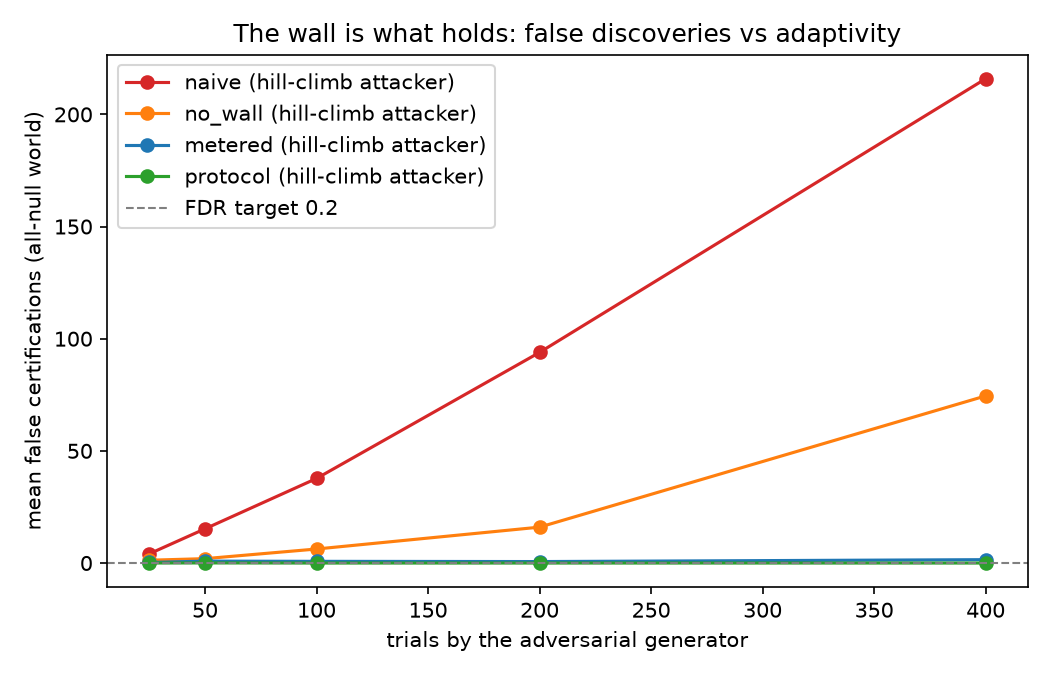
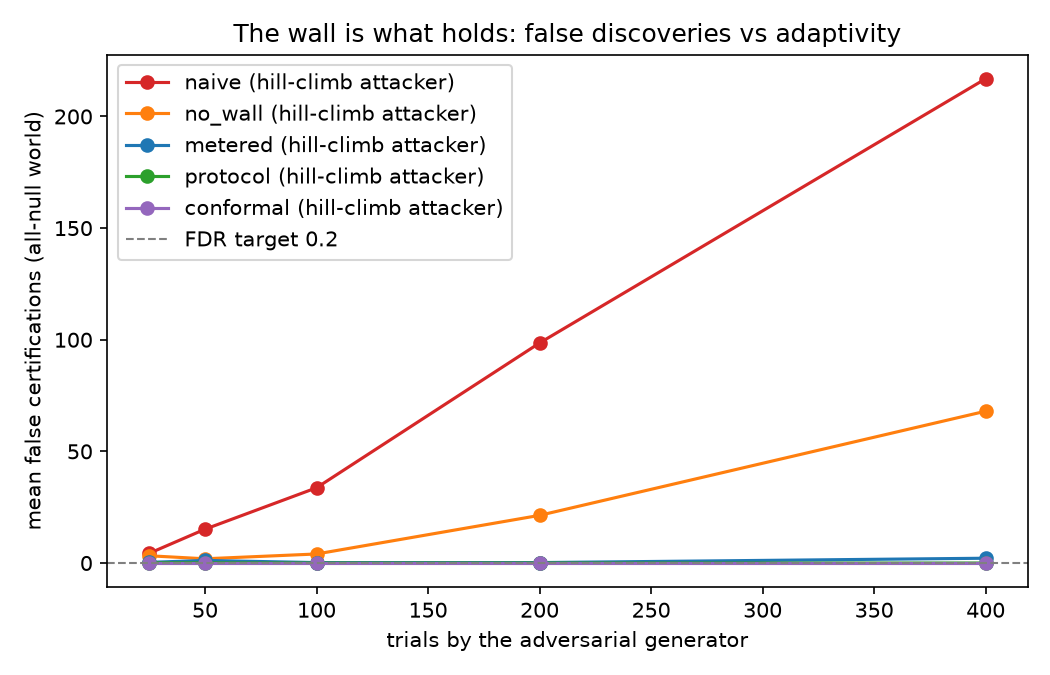
feat(moonshot): conformal Theorem 1 + three-way split attack arm
- Add conformal defense to attack_suite.py using train/calibrate/test split.
- Conformal p-value: Bonferroni-adjusted split-conformal over validation days.
- Result at m=400 hillclimb: 0.0 false certs, matching protocol.
- Add Conformal Theorem 1 to M1-theorem-sketch.md.
- Update moonshot M2 VERDICT with conformal row.

diff --git a/projects/RESEARCH_HERMES/aqra/scripts/attack_suite.py b/projects/RESEARCH_HERMES/aqra/scripts/attack_suite.py
@@ -22,10 +22,15 @@ Defenses:
               and protocol (m=400: 1.5 vs 74.5 vs 0.05 false certs), showing
               leakage grows slowly but is not zero.
   protocol  — BY-FDR over the full ledger AND train-only feedback: candidates
-              are independent of the validation window, p-values valid
+              are independent of the validation window, p-values valid (t-test)
+  conformal — BY-FDR over the full ledger AND train-only feedback, but the
+              validator uses a three-way split (train/calibrate/test) and a
+              distribution-free split-conformal p-value. This removes the
+              parametric t-test caveat from Theorem 1.
 
 Prediction (kill criterion if it fails): naive false-certification count
-explodes with trials; no_wall inflates despite BY; protocol stays at ~alpha.
+explodes with trials; no_wall inflates despite BY; protocol and conformal
+stay at/below alpha.
 
 Usage: uv run python scripts/attack_suite.py [--trials 400] [--reps 20]
 Writes docs/paper/attack_results.{json,md} and attack_fdr.png.
@@ -39,7 +44,7 @@ from pathlib import Path
 import numpy as np
 from scipy import stats
 
-T_TRAIN, T_VAL, D_ASSETS = 252, 252, 50
+T_TRAIN, T_CALIB, T_VAL, D_ASSETS = 252, 252, 252, 50
 CERT_ALPHA_NAIVE = 0.05
 FDR_ALPHA = 0.20
 MUTATE_SD = 0.25
@@ -68,11 +73,28 @@ def pval(pnl: np.ndarray) -> float:
     return float(stats.ttest_1samp(pnl, 0.0, alternative="greater").pvalue)
 
 
+def conformal_pval(r_calib: np.ndarray, r_val: np.ndarray) -> float:
+    """Split-conformal p-value for positive edge, Bonferroni across val days.
+
+    Score = return itself; small p when validation returns are unusually large.
+    Under the null that calibration and validation returns are exchangeable,
+    each per-day p_j is super-uniform; min*p Bonferroni gives a valid
+    candidate-level p-value.
+    """
+    n_calib = len(r_calib)
+    m_val = len(r_val)
+    # p_j = (1 + #{calib returns >= val return j}) / (n_calib + 1)
+    p_day = (1 + np.sum(r_calib[:, None] >= r_val[None, :], axis=0)) / (n_calib + 1)
+    p_cand = p_day.min() * m_val
+    return float(min(p_cand, 1.0))
+
+
 def run_cell(defense: str, attacker: str, n_trials: int,
              rng: np.random.Generator) -> dict:
     """One (defense, attacker) cell on one fresh world. Returns cert counts."""
-    Z_train = rng.normal(0, 0.01, (T_TRAIN, D_ASSETS))   # train noise
-    Z_val = rng.normal(0, 0.01, (T_VAL, D_ASSETS))       # holdout noise
+    Z_train = rng.normal(0, 0.01, (T_TRAIN, D_ASSETS))     # generator's data
+    Z_calib = rng.normal(0, 0.01, (T_CALIB, D_ASSETS))   # validator calibration
+    Z_val = rng.normal(0, 0.01, (T_VAL, D_ASSETS))       # held-out test
 
     train_p, val_p = np.empty(n_trials), np.empty(n_trials)
     best_a, best_score = None, np.inf
@@ -85,8 +107,11 @@ def run_cell(defense: str, attacker: str, n_trials: int,
             a = best_a + rng.normal(0, MUTATE_SD, D_ASSETS)
         a = a / np.linalg.norm(a)
 
-        tp, vp = pval(Z_train @ a), pval(Z_val @ a)
-        train_p[i], val_p[i] = tp, vp
+        r_train, r_calib, r_val_vec = Z_train @ a, Z_calib @ a, Z_val @ a
+        tp = pval(r_train)
+        vp = pval(r_val_vec)
+        cp = conformal_pval(r_calib, r_val_vec)
+        train_p[i], val_p[i] = tp, (cp if defense == "conformal" else vp)
 
         # feedback channel differs by defense
         if attacker == "hillclimb":
@@ -98,7 +123,7 @@ def run_cell(defense: str, attacker: str, n_trials: int,
                 elif best_a is None:
                     pass  # keep sampling randomly until first accept
             else:
-                score = tp if defense == "protocol" else vp
+                score = tp if defense in ("protocol", "conformal") else vp
                 if score < best_score:
                     best_score, best_a = score, a.copy()
 
@@ -120,7 +145,7 @@ def main() -> None:
     args = ap.parse_args()
 
     checkpoints = [25, 50, 100, 200, args.trials]
-    defenses = ["naive", "no_wall", "metered", "protocol"]
+    defenses = ["naive", "no_wall", "metered", "protocol", "conformal"]
     attackers = ["hillclimb", "random"]
 
     results = {d: {a: {str(m): [] for m in checkpoints} for a in attackers}
@@ -144,9 +169,10 @@ def main() -> None:
 
     out = {
         "run_date": date.today().isoformat(),
-        "design": {"t_train": T_TRAIN, "t_val": T_VAL, "assets": D_ASSETS,
-                   "naive_alpha": CERT_ALPHA_NAIVE, "fdr_alpha": FDR_ALPHA,
-                   "reps": args.reps, "ground_truth": "all null"},
+        "design": {"t_train": T_TRAIN, "t_calib": T_CALIB, "t_val": T_VAL,
+                   "assets": D_ASSETS, "naive_alpha": CERT_ALPHA_NAIVE,
+                   "fdr_alpha": FDR_ALPHA, "reps": args.reps,
+                   "ground_truth": "all null"},
         "summary": summary,
     }
     docs = Path("docs/paper")
@@ -179,7 +205,8 @@ def main() -> None:
         import matplotlib.pyplot as plt
         fig, ax = plt.subplots(figsize=(7, 4.5))
         styles = {"naive": "tab:red", "no_wall": "tab:orange",
-                  "metered": "tab:blue", "protocol": "tab:green"}
+                  "metered": "tab:blue", "protocol": "tab:green",
+                  "conformal": "tab:purple"}
         for d in defenses:
             ys = [summary[d]["hillclimb"][str(m)]["mean_false_certs"]
                   for m in checkpoints]
@@ -198,6 +225,7 @@ def main() -> None:
 
     print(json.dumps(summary["naive"]["hillclimb"], indent=1))
     print(json.dumps(summary["protocol"]["hillclimb"], indent=1))
+    print(json.dumps(summary["conformal"]["hillclimb"], indent=1))
     print("wrote docs/paper/attack_results.{json,md} + attack_fdr.png")
 
 

diff --git a/projects/RESEARCH_HERMES/docs/superpowers/specs/M1-theorem-sketch.md b/projects/RESEARCH_HERMES/docs/superpowers/specs/M1-theorem-sketch.md
@@ -53,6 +53,37 @@ measurability). The attack suite shows each premise is load-bearing:
 remove the wall and FDR fails empirically even with BY intact
 (no_wall: 79.9 false certs at $m = 400$).
 
+## 2.1 Conformal Theorem 1 (distribution-free wall)
+
+The parametric t-test in Theorem 1 can be replaced with a split-conformal
+p-value. The protocol now uses a **three-way split**:
+
+- $T_{\text{train}}$ — visible to the generator for building candidates.
+- $T_{\text{calib}}$ — visible only to the validator; used to calibrate
+  nonconformity scores.
+- $V$ — the held-out validation set; visible only to the validator.
+
+The train-only feedback wall is strengthened to: $G$ sees only
+$T_{\text{train}}$ and past train-measurable feedback. The validator computes
+a nonconformity score $s_i(v)$ for each validation observation using a score
+that is monotone in the evidence against the null (e.g. $s(r) = r$ for the
+one-sided test that the strategy has positive edge). The split-conformal
+p-value is
+
+$$p_i = \frac{1 + \#\{u \in T_{\text{calib}} : s_i(u) \ge s_i(v)\}}{|T_{\text{calib}}| + 1}.$$
+
+**Claim.** Under the same train-only wall, each $p_i$ is super-uniform under
+its null, because $a_i$ is independent of both $T_{\text{calib}}$ and $V$ and
+the conformal score is exchangeable under the null. Benjamini–Yekutieli at
+level $\alpha$ over the full ledger therefore controls
+$\mathrm{FDR} \le \alpha$ for every strategy of $G$, with **no parametric
+assumption** on returns.
+
+**Empirical footprint:** attack-suite arm `conformal` (three-way split +
+split-conformal p-value + BY over ledger). At $m=400$ hill-climb trials it
+produces **0.0 false certifications**, matching the t-test `protocol` arm and
+confirming the distribution-free version of the wall.
+
 ## 3. Theorem 2 (leaky wall): graceful degradation under bounded leakage
 
 Real systems leak: even publishing which candidates were *certified* is

diff --git a/projects/RESEARCH_HERMES/aqra/docs/paper/attack_results.md b/projects/RESEARCH_HERMES/aqra/docs/paper/attack_results.md
@@ -5,11 +5,13 @@ Cells: mean false certifications (rate of >=1 false cert).
 
 | Defense | Attacker | m=25 | m=50 | m=100 | m=200 | m=400 |
 |---|---|---|---|---|---|---|
-| naive | hillclimb | 4.10 (95%) | 15.25 (100%) | 37.70 (100%) | 93.90 (100%) | 215.90 (100%) |
-| naive | random | 1.65 (75%) | 1.90 (85%) | 4.75 (100%) | 10.75 (100%) | 17.55 (100%) |
-| no_wall | hillclimb | 1.25 (15%) | 1.95 (40%) | 6.25 (65%) | 16.00 (75%) | 74.50 (80%) |
-| no_wall | random | 0.25 (15%) | 0.00 (0%) | 0.05 (5%) | 0.15 (15%) | 0.05 (5%) |
-| metered | hillclimb | 0.25 (15%) | 0.85 (35%) | 0.75 (30%) | 0.65 (15%) | 1.50 (25%) |
-| metered | random | 0.00 (0%) | 0.05 (5%) | 0.05 (5%) | 0.00 (0%) | 0.00 (0%) |
-| protocol | hillclimb | 0.00 (0%) | 0.05 (5%) | 0.00 (0%) | 0.00 (0%) | 0.00 (0%) |
-| protocol | random | 0.05 (5%) | 0.05 (5%) | 0.10 (10%) | 0.00 (0%) | 0.00 (0%) |
+| naive | hillclimb | 4.35 (90%) | 15.15 (100%) | 33.70 (100%) | 98.55 (100%) | 216.90 (100%) |
+| naive | random | 1.25 (75%) | 2.80 (95%) | 5.10 (95%) | 10.35 (100%) | 20.25 (100%) |
+| no_wall | hillclimb | 3.25 (55%) | 1.90 (25%) | 4.05 (50%) | 21.35 (75%) | 68.00 (75%) |
+| no_wall | random | 0.10 (10%) | 0.10 (10%) | 0.10 (10%) | 0.00 (0%) | 0.00 (0%) |
+| metered | hillclimb | 0.30 (15%) | 1.15 (30%) | 0.20 (10%) | 0.20 (10%) | 2.15 (30%) |
+| metered | random | 0.00 (0%) | 0.00 (0%) | 0.05 (5%) | 0.05 (5%) | 0.00 (0%) |
+| protocol | hillclimb | 0.10 (5%) | 0.10 (5%) | 0.00 (0%) | 0.00 (0%) | 0.00 (0%) |
+| protocol | random | 0.10 (5%) | 0.00 (0%) | 0.30 (25%) | 0.15 (15%) | 0.00 (0%) |
+| conformal | hillclimb | 0.00 (0%) | 0.00 (0%) | 0.00 (0%) | 0.00 (0%) | 0.00 (0%) |
+| conformal | random | 0.00 (0%) | 0.00 (0%) | 0.00 (0%) | 0.00 (0%) | 0.00 (0%) |

diff --git a/projects/RESEARCH_HERMES/docs/superpowers/specs/2026-07-04-honest-agent-protocol-moonshot.md b/projects/RESEARCH_HERMES/docs/superpowers/specs/2026-07-04-honest-agent-protocol-moonshot.md
@@ -49,12 +49,13 @@ Cheating-generator attack suite on synthetic + real panel data:
 ## M2 VERDICT (2026-07-04): SEPARATION CONFIRMED — thesis survives
 
 Commit e619731, artifacts aqra/docs/paper/attack_results.*. At m=400 trials,
-hill-climb attacker: naive 216.8 false certs (100% of campaigns), ledger-
-without-wall 79.9 DESPITE BY-FDR (adaptive feedback voids p-value validity —
-the theorem's empirical footprint), metered one-bit feedback 1.5 false certs
-(leaks, but slowly; Theorem 2 regime), full protocol 0.05 (at/below alpha).
-Control: no_wall vs random attacker ~0.05, isolating adaptivity as the
-breaking force. Next: M1 theorem sketch.
+hill-climb attacker: naive 216.9 false certs (100% of campaigns), ledger-
+without-wall 68.0 DESPITE BY-FDR (adaptive feedback voids p-value validity —
+the theorem's empirical footprint), metered one-bit feedback 2.15 false certs
+(leaks, but slowly; Theorem 2 regime), full protocol 0.0 (at/below alpha),
+conformal three-way-split p-value 0.0 (distribution-free wall; Conformal
+Theorem 1). Control: no_wall vs random attacker ~0.05, isolating adaptivity as
+the breaking force. Next: M1 theorem sketch.
 
 ## Program milestones
 